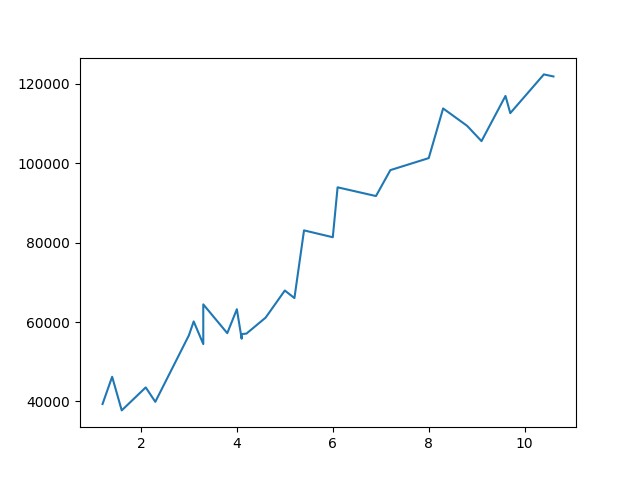
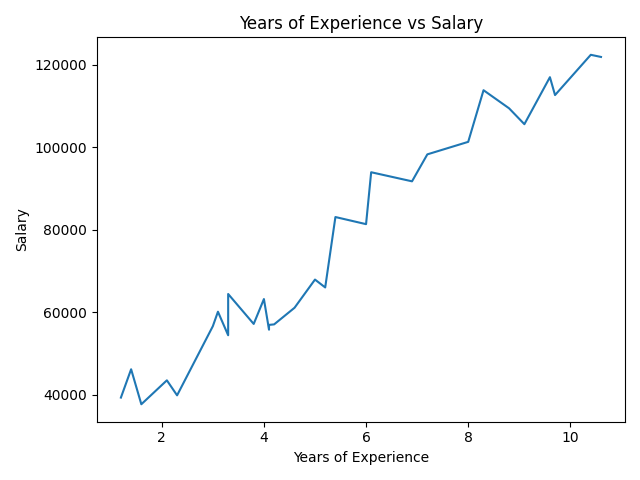
Added labels and datapoints in the chart

diff --git a/salary_prediction.py b/salary_prediction.py
@@ -28,7 +28,12 @@ print(data)
 # using graphs for better understanding how the data is distributed
 x = data['YearsExperience']
 y = data['Salary']
-plt.plot(x, y)
+plt.plot(x, y, color = 'red', marker='o', label ='data points')
+plt.xlabel('Years of Experience')
+plt.ylabel('Salary')
+plt.title('Years of Experience vs Salary')
+plt.tight_layout()
+plt.savefig("visualization.png")
 plt.show()
 
 # split into train-test
